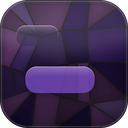
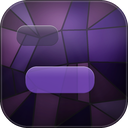
스테인드 글래스에 역광을 넣는다
빛 지도를 곱해 먼 곳을 누르기만 해서 빛이 안 닿는 곳만 있고 비쳐 드는 곳이 없었다.
광원 앞 조각이 제 색을 지닌 채 달아오르고, 한가운데는 흰빛에 가깝게 타고,
그 빛이 후광으로 납선을 넘어 번지게 했다. 조각 가운데가 가장자리보다 밝고,
광원에서 아래로 옅은 빛줄기가 퍼진다.

처음에는 흰빛을 많이 섞었더니 광원 쪽이 우유빛으로 뿌예지고 납선이 회색으로
묻혔다. 흰빛은 줄이고 빛 받은 자리의 채도를 올렸다 — 역광 유리는 밝아질수록
색이 진해 보인다.

Changed region(s): [[0.0938, 0.0, 0.9375, 0.5312], [0.0938, 0.25, 0.125, 0.3125]]

diff --git a/tools/scenes.py b/tools/scenes.py
@@ -14,7 +14,7 @@ import sys
 if hasattr(sys.stdout, 'reconfigure'):
     sys.stdout.reconfigure(encoding='utf-8')
 
-from PIL import Image, ImageChops, ImageDraw, ImageFilter
+from PIL import Image, ImageChops, ImageDraw, ImageEnhance, ImageFilter
 
 sys.path.insert(0, os.path.dirname(os.path.abspath(__file__)))
 
@@ -1097,6 +1097,9 @@ def stained(spec, w, h):
 
     조각 안을 단색으로 채우면 색종이다. 세 겹을 얹는다 — 조각마다 다른 두께(밝기),
     유리 속의 얼룩, 한쪽에서 드는 빛. 납선 옆은 그늘이 져서 조각 가운데가 떠 보인다.
+
+      backlight  역광 세기. 0 이면 달아오름·후광·빛줄기가 없다
+      rays       빛줄기 개수
     """
     gen = _g()
     o = spec[3] if len(spec) > 3 else {}
@@ -1137,7 +1140,7 @@ def stained(spec, w, h):
     for poly in polys:
         pts = [(x * S, y * S) for x, y in poly]
         c = rnd.choice(colors)
-        f = rnd.uniform(0.62, 1.12)           # 유리 두께가 조각마다 달라 밝기가 다르다
+        f = rnd.uniform(0.45, 1.15)           # 유리 두께가 조각마다 달라 밝기가 다르다
         gd.polygon(pts, fill=tuple(min(255, int(v * f)) for v in c))
         md.line(pts + [pts[0]], fill=255, width=lw, joint='curve')
     for row in V:                             # 납땜 자리. 선이 만나는 곳이 조금 도톰하다
@@ -1152,22 +1155,57 @@ def stained(spec, w, h):
     mott = mott.point(lambda v: int(228 + (v - 128) * 0.22))
     glass = ImageChops.multiply(glass, Image.merge('RGB', (mott, mott, mott)))
 
-    # 빛. 창 너머 위쪽 한 곳에서 들어온다. 아래로 갈수록 어둡다
-    lx, ly = rnd.uniform(0.25, 0.75) * w, rnd.uniform(0.05, 0.30) * h
-    R = max(w, h) * 0.95
+    # 빛. 창 뒤 위쪽 한 곳에 광원이 있다. 예전에는 빛 지도를 곱해 먼 곳을 누르기만 해서
+    # 빛이 "안 닿는 곳"만 있고 "비쳐 드는 곳"이 없었다. 역광 유리는 광원 앞 조각이 제 색을
+    # 지닌 채 달아오르고, 바로 앞은 흰빛에 가깝게 타며, 그 빛이 납선을 넘어 번진다.
+    lx, ly = rnd.uniform(0.3, 0.7) * w, rnd.uniform(0.06, 0.24) * h
     amb = o.get('ambient', 0.22)
-    lm = Image.new('L', (w, h), int(255 * amb))
-    ld = ImageDraw.Draw(lm)
-    for i in range(48, 0, -1):
-        f = i / 48
-        ld.ellipse([lx - R * f, ly - R * f, lx + R * f, ly + R * f],
-                   fill=int(255 * (amb + (1 - amb) * (1 - f) ** 1.7)))
-    lm = lm.filter(ImageFilter.GaussianBlur(w * 0.05))
-    glass = ImageChops.multiply(glass, Image.merge('RGB', (lm, lm, lm)))
+    power = o.get('backlight', 1.0)
 
-    # 납선 옆 그늘
-    shade = mask.filter(ImageFilter.GaussianBlur(lw / S * 2.2)).point(lambda v: 255 - int(v * 0.6))
-    glass = ImageChops.multiply(glass, Image.merge('RGB', (shade, shade, shade)))
+    def radial(radius, expo):
+        m = Image.new('L', (w, h), 0)
+        d = ImageDraw.Draw(m)
+        for i in range(48, 0, -1):
+            f = i / 48
+            d.ellipse([lx - radius * f, ly - radius * f, lx + radius * f, ly + radius * f],
+                      fill=int(255 * (1 - f) ** expo))
+        return m.filter(ImageFilter.GaussianBlur(w * 0.04))
+
+    def gray(m):
+        return Image.merge('RGB', (m, m, m))
+
+    near = radial(max(w, h) * 0.95, 1.7)          # 멀어질수록 어두워지는 넓은 빛
+    hot = radial(w * 0.85, 2.0)                    # 광원 앞 달아오르는 자리
+    core_m = radial(w * 0.32, 2.4)                 # 흰빛에 가깝게 타는 한가운데
+
+    raw = glass
+    lm = near.point(lambda v: int(255 * amb + v * (1 - amb)))
+    glass = ImageChops.multiply(raw, gray(lm))
+
+    # 조각 가운데가 가장자리보다 밝다. 빛이 유리를 통과해 나오는 자리라 납선에서 먼 곳이 더 탄다
+    inner = mask.filter(ImageFilter.GaussianBlur(lw / S * 7)).point(
+        lambda v: 255 - min(255, int(v * 2.2)))
+
+    # 달아오름. 제 색을 곱한 것을 screen 으로 얹으면 색상은 두고 명도만 오른다.
+    # 흰색을 얹으면 색이 빠져 뿌연 창이 된다 — 유리는 빛을 받을수록 제 색이 진해져 보인다
+    k = ImageChops.multiply(hot, inner).point(lambda v: min(255, int(v * power)))
+    lit = ImageChops.multiply(raw, gray(k))
+    glass = ImageChops.screen(glass, lit)
+    glass = ImageChops.screen(glass, lit.point(lambda v: int(v * 0.7)))
+
+    # 한가운데는 유리색이 옅게 섞인 흰빛
+    tint = tuple(int(v + (255 - v) * 0.30) for v in max(colors, key=sum))
+    cm = ImageChops.multiply(core_m, inner).point(lambda v: min(255, int(v * 0.45 * power)))
+    glass = ImageChops.screen(glass, ImageChops.multiply(Image.new('RGB', (w, h), tint), gray(cm)))
+    # 빛을 받은 유리는 색이 진해 보인다. 밝히기만 하면 광원 쪽이 우유빛으로 뿌예진다
+    vivid = ImageEnhance.Color(glass).enhance(1.0 + 0.5 * power)
+    glass = Image.composite(vivid, glass, near)
+    lit_glass = glass
+
+    # 납선 옆 그늘. 광원 앞에서는 빛이 그늘을 덮으므로 덜 진다
+    shade = mask.filter(ImageFilter.GaussianBlur(lw / S * 2.2))
+    shade = ImageChops.subtract(shade, hot.point(lambda v: int(v * 0.5)))
+    glass = ImageChops.multiply(glass, gray(shade.point(lambda v: 255 - int(v * 0.6))))
 
     # 납선. 가운데가 살짝 밝아야 납작한 먹선이 아니라 둥근 금속 띠로 보인다
     glass.paste(Image.new('RGB', (w, h), lead), (0, 0), mask)
@@ -1175,9 +1213,30 @@ def stained(spec, w, h):
     hi = tuple(min(255, int(v + (255 - v) * 0.22)) for v in lead)
     glass.paste(Image.new('RGB', (w, h), hi), (0, 0), core.point(lambda v: int(v * 0.45)))
 
-    # 번짐. 밝은 조각의 빛이 납선 위로 조금 넘어온다. 없으면 오려 붙인 판화 같다
+    # 후광. 밝은 조각의 빛이 납선 위로 넘어온다. 광원 앞에서는 납선이 빛에 먹혀 가늘어 보인다.
+    # 없으면 오려 붙인 판화 같다
     bloom = glass.filter(ImageFilter.GaussianBlur(w * 0.025))
-    glass = ImageChops.screen(glass, bloom.point(lambda v: int(v * 0.45)))
+    glass = ImageChops.screen(glass, bloom.point(lambda v: int(v * 0.18)))
+    halo = ImageChops.multiply(lit_glass.filter(ImageFilter.GaussianBlur(w * 0.03)), gray(hot))
+    glass = ImageChops.screen(glass, halo.point(lambda v: min(255, int(v * 0.5 * power))))
+
+    # 빛줄기. 광원에서 아래로 퍼지는 옅은 띠. 창 앞 공기 속의 먼지에 걸린 빛이다
+    n_rays = o.get('rays', 7)
+    if n_rays:
+        rays = Image.new('L', (w, h), 0)
+        rd = ImageDraw.Draw(rays)
+        far = h * 2.2
+        for _ in range(n_rays):
+            ang = math.radians(rnd.uniform(35, 145))
+            half = math.radians(rnd.uniform(0.8, 2.6))
+            rd.polygon([(lx, ly),
+                        (lx + math.cos(ang - half) * far, ly + math.sin(ang - half) * far),
+                        (lx + math.cos(ang + half) * far, ly + math.sin(ang + half) * far)],
+                       fill=rnd.randint(50, 110))
+        rays = rays.filter(ImageFilter.GaussianBlur(w * 0.015))
+        rays = ImageChops.multiply(rays, near)
+        glass = ImageChops.screen(glass, ImageChops.multiply(
+            Image.new('RGB', (w, h), tint), gray(rays.point(lambda v: int(v * 0.45 * power)))))
 
     dim = o.get('dim', 0.0)
     if dim:
